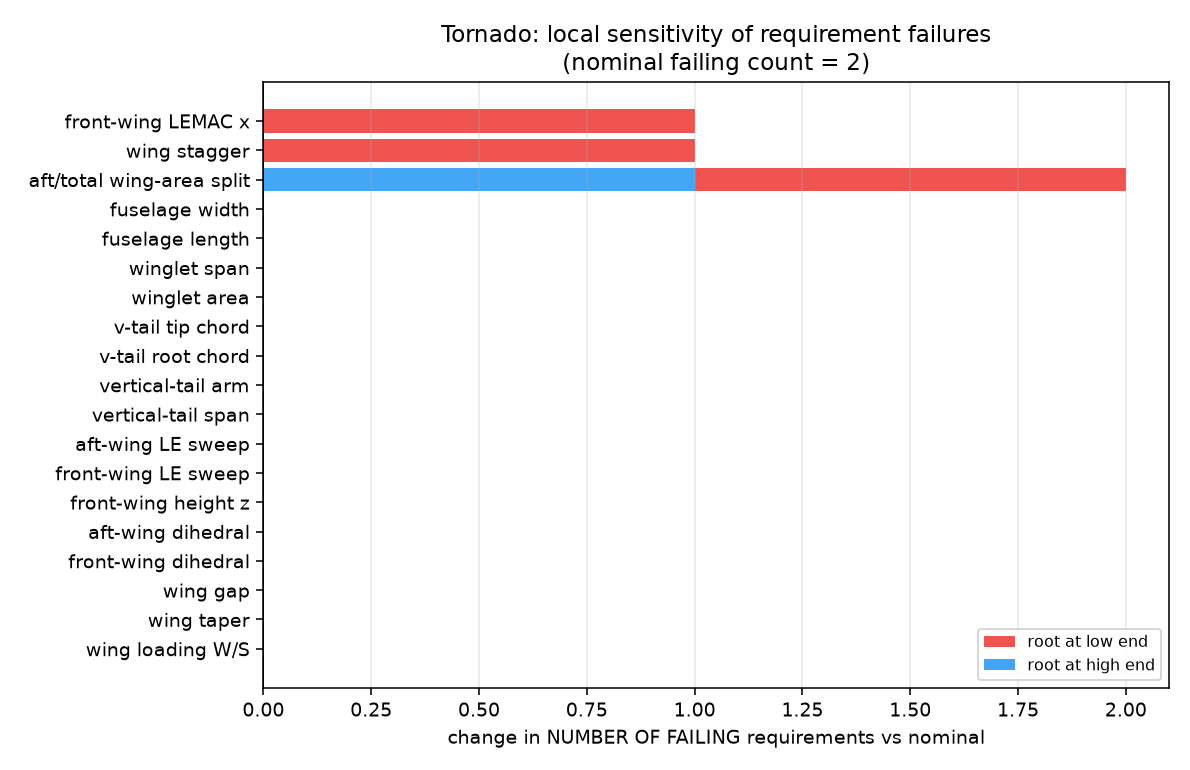
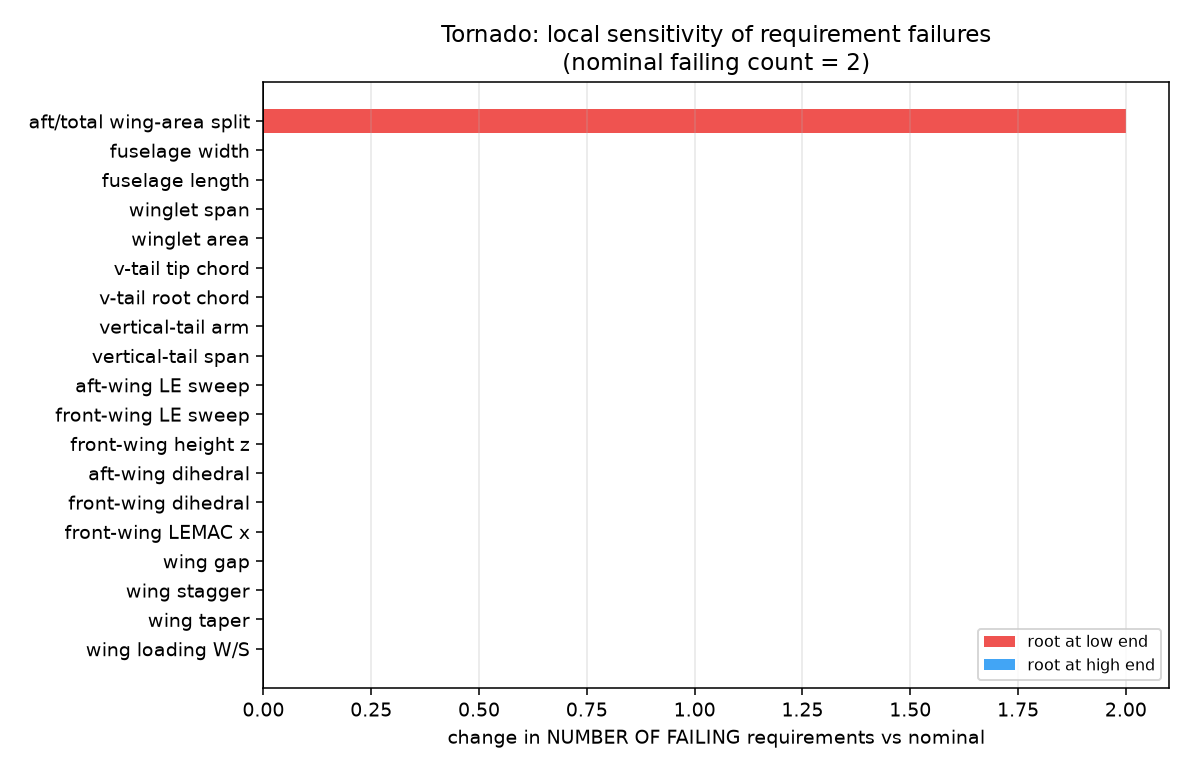
de hardcoding / updating VD integrations

Changed region(s): [[0.0311, 0.1247, 0.9639, 0.7792]]

diff --git a/final_characteristics/stability_eval.py b/final_characteristics/stability_eval.py
@@ -74,8 +74,9 @@ from VTOL_cg_envelope_det import load_design_parameters
 
 # Large penalty used when the VTOL OEI envelope cannot be computed (an OEI case
 # is infeasible). It pushes the allowable limits out of reach so both VTOL c.g.
-# requirements fail with a big, finite violation.
-_INFEASIBLE_PENALTY = 1.0e6  # [m]
+# requirements fail with a big, finite violation. Sourced from the parameter
+# sheet (single master value).
+from parameters import VTOL_INFEASIBLE_PENALTY as _INFEASIBLE_PENALTY  # [m]
 
 
 # ===========================================================================
@@ -218,8 +219,10 @@ def _resolve_dependents(params):
     wl.AR_winglet = wl.b_winglet ** 2 / wl.S_winglet
     wl.LE_sweep_winglet = np.arctan(wg.stagger / wg.gap)
 
-    # Fuselage projected side area carries the vertical-tail area.
-    fg.side_area = 20.0 + tg.S_vert_tail
+    # Fuselage projected side area carries the vertical-tail area. The base area
+    # is the sheet field (FuselageGeometry.base_area), matching the dataclass
+    # default and aircraft.main_aircraft() rather than a hardcoded constant.
+    fg.side_area = fg.base_area + tg.S_vert_tail
     fg.body_depth_at_wing = fg.d_fw
 
 
@@ -325,10 +328,13 @@ def evaluate_stability(param_overrides=None, design_vars=None, mtow=None):
         _set_dotted(params, charts, dotted_path, value)
     _resolve_dependents(params)
 
-    # c.g. positions: design_vars override the sheet default x_cg_opt.
-    default_cg = params.mass.x_cg_opt
-    cg_cruise_nose = design_vars.get("cg_cruise_nose", design_vars.get("x_cg", default_cg))
-    cg_vtol_nose = design_vars.get("cg_vtol_nose", design_vars.get("x_cg", default_cg))
+    # c.g. (and inertias) from the REAL MMOI component mass build-up, not a
+    # hand-set sheet value. The cruise build-up fills params.mass and feeds the
+    # cruise checks; the aft-shifted VTOL (wings-folded) build-up feeds the
+    # VTOL-OEI check. design_vars may still override for manual what-ifs.
+    mmoi_cruise_cg, mmoi_vtol_cg = aircraft.apply_mmoi_mass_properties(params)
+    cg_cruise_nose = design_vars.get("cg_cruise_nose", design_vars.get("x_cg", mmoi_cruise_cg))
+    cg_vtol_nose = design_vars.get("cg_vtol_nose", design_vars.get("x_cg", mmoi_vtol_cg))
     cruise_static_margin = design_vars.get("cruise_static_margin", DEFAULT_CRUISE_STATIC_MARGIN)
 
     # --- Build the aircraft and apply the wing-area split ------------------

diff --git a/final_characteristics/optimiser.py b/final_characteristics/optimiser.py
@@ -80,16 +80,21 @@ from pymoo.operators.mutation.pm import PM
 #   bounds    -- (low, high) search range
 #   route     -- where the value goes when evaluating a design:
 #                  "design_var:<key>"  -> stability_eval design_vars[<key>]
-#                                         (recognised keys: x_cg, s_aft_to_s_total)
+#                                         (recognised keys: s_aft_to_s_total)
 #                  "override:<dotted>"  -> stability_eval param_overrides[<dotted>]
 #   converger -- name of a class_II_sizing.mass_components module global to
 #                override before reconverging the MTOW (None = does not affect the
 #                converged mass). Only "wing_loading" does today.
 #
+# NOTE: the c.g. is NOT a design variable. It is an EMERGENT output of the
+# component mass build-up, computed by MMOI (cruise + VTOL) inside
+# stability_eval.evaluate_stability. The c.g.-envelope requirements remain
+# constraints; promote the layout roots that MOVE the c.g. (e.g. x_LEMAC_fw,
+# x_vert_tail, battery/payload stations) rather than tuning the c.g. directly.
+#
 # The set + bounds below are SUGGESTIONS grounded in the Sobol consult
 # (stability_sensitivity.py). Edit to match the team's chosen tunables.
 DESIGN_VARIABLES = {
-    "x_cg":             {"bounds": (2.8, 3.6),   "route": "design_var:x_cg",                           "converger": None},
     "s_aft_to_s_total": {"bounds": (0.30, 0.70), "route": "override:s_aft_to_s_total",                 "converger": None},
     "dihedral_fw":      {"bounds": (0.0, 6.0),   "route": "override:wing_geometry.dihedral_front_wing","converger": None},
     "dihedral_aw":      {"bounds": (0.0, 6.0),   "route": "override:wing_geometry.dihedral_aft_wing",  "converger": None},
@@ -111,7 +116,6 @@ def design_vector_to_dict(x):
 def default_design_vector():
     """Nominal starting design (mid-range-ish, near the current sheet values)."""
     return {
-        "x_cg":             3.311,  # current sheet x_cg_opt
         "s_aft_to_s_total": 0.50,
         "dihedral_fw":      0.0,
         "dihedral_aw":      0.0,

diff --git a/final_characteristics/vehicle_dynamics/aircraft.py b/final_characteristics/vehicle_dynamics/aircraft.py
@@ -1309,21 +1309,41 @@ def print_results(obj):
     print("  C_l_beta<0, C_l_p<0, C_n_r<0. All derivatives per radian.".ljust(total))
     print(line + "\n")
 
+def apply_mmoi_mass_properties(params, verbose=False):
+    """Source the mass properties (c.g., inertias, MTOW) from the real MMOI
+    component mass build-up and write them onto ``params.mass``.
+
+    This is THE single method every vehicle-dynamics entry point uses so the c.g.
+    and inertias come from the component layout (class_II_sizing/MMOI.py), never a
+    hand-set sheet value. MMOI is dual-mode: the CRUISE build-up fills
+    ``params.mass`` (x_cg_opt, z_cg, inertias, mtow) and drives the cruise
+    analysis, while the VTOL build-up (wings folded, rotors repositioned) gives an
+    aft-shifted c.g. used by the VTOL-OEI envelope check.
+
+    Returns:
+        (cruise_x_cg, vtol_x_cg): the longitudinal c.g. stations [m, nose datum]
+        for the cruise and VTOL configurations.
+    """
+    cruise = as_mass_properties(aircraft_inertia(verbose=verbose, configuration="cruise"))
+    params.mass.mtow = cruise["mtow"]
+    params.mass.I_xx = cruise["I_xx"]
+    params.mass.I_yy = cruise["I_yy"]
+    params.mass.I_zz = cruise["I_zz"]
+    params.mass.I_xz = cruise["I_xz"]
+    params.mass.z_cg = cruise["z_cg"]
+    params.mass.x_cg_opt = cruise["x_cg"]
+
+    vtol_x_cg = float(as_mass_properties(aircraft_inertia(configuration="vtol"))["x_cg"])
+    return float(cruise["x_cg"]), vtol_x_cg
+
+
 def main_aircraft():
     params = AircraftParameters()
     charts = DatcomChartInputs()
     physical = Physical()
     fc = FlightCondition()
 
-    MMOI = as_mass_properties(aircraft_inertia(verbose=True))
-
-    params.mass.mtow = MMOI["mtow"]
-    params.mass.I_xx = MMOI["I_xx"]
-    params.mass.I_yy = MMOI["I_yy"]
-    params.mass.I_zz = MMOI["I_zz"]
-    params.mass.I_xz = MMOI["I_xz"]
-    params.mass.z_cg = MMOI["z_cg"]
-    params.mass.x_cg_opt = MMOI["x_cg"]
+    apply_mmoi_mass_properties(params, verbose=True)
 
     aircraft = Aircraft(params, physical, fc, charts)
 

diff --git a/final_characteristics/vehicle_dynamics/dyn_stab_analysis.py b/final_characteristics/vehicle_dynamics/dyn_stab_analysis.py
@@ -32,7 +32,13 @@ except ImportError:                      # fall back to scipy if control is abse
     from scipy import signal
     HAVE_CONTROL = False
 
-from parameters import AircraftParameters
+from parameters import (
+    AircraftParameters,
+    INERTIA_RBAR_X,
+    INERTIA_RBAR_Y,
+    INERTIA_RBAR_Z,
+    INERTIA_XZ_TO_XX_RATIO,
+)
 from final_characteristics.vehicle_dynamics.aircraft import (
     Aircraft,
     Physical,
@@ -46,10 +52,11 @@ from final_characteristics.vehicle_dynamics.aircraft import (
 # 1. INERTIA ESTIMATES (placeholders until the structures department delivers)
 # ===========================================================================
 # Roskam class-I radii-of-gyration method:  I = m * (Rbar * L_char / 2)^2
-# Rbar values typical of light twin / commuter configurations. REPLACE the
-# moments of inertia in MassProperties as soon as real numbers exist — every
-# frequency below scales with 1/sqrt(I).
-RBAR_X, RBAR_Y, RBAR_Z = 0.25, 0.35, 0.40
+# Rbar values typical of light twin / commuter configurations. Only used as a
+# FALLBACK: the MMOI build-up (via aircraft.apply_mmoi_mass_properties) normally
+# fills the real inertias, so this fires only if they are still None. The Rbar
+# factors and the I_xz ratio are sourced from parameters.py.
+RBAR_X, RBAR_Y, RBAR_Z = INERTIA_RBAR_X, INERTIA_RBAR_Y, INERTIA_RBAR_Z
 
 
 def fill_inertia_placeholders(params):
@@ -65,7 +72,7 @@ def fill_inertia_placeholders(params):
     if m.I_zz is None:
         m.I_zz = m.mtow * (RBAR_Z * e / 2) ** 2;  filled.append("I_zz")
     if m.I_xz is None:
-        m.I_xz = 0.05 * m.I_xx;                   filled.append("I_xz")
+        m.I_xz = INERTIA_XZ_TO_XX_RATIO * m.I_xx;  filled.append("I_xz")
     if filled:
         print(f"[WARN] Inertias estimated by radius-of-gyration placeholders: {filled}")
         print(f"       I_xx={m.I_xx:.0f}  I_yy={m.I_yy:.0f}  I_zz={m.I_zz:.0f}  "

diff --git a/parameters.py b/parameters.py
@@ -578,6 +578,19 @@ OSWALD_EFFICIENCY    = AerodynamicCoefficients.e_hor_wings  # [-] Oswald efficie
 CRUISE_STATIC_MARGIN   = 0.05  # [-] cruise aft-CG static margin (stat_long_stab_anal_func.py)
 VTOL_OEI_STATIC_MARGIN = 0.05  # [-] VTOL OEI CG-envelope static margin (VTOL_cg_envelope_det.py)
 
+# Penalty applied when the VTOL-OEI c.g. envelope is infeasible (no allowable c.g.
+# exists for a propeller-out case): the allowable limits are pushed out of reach
+# so both VTOL c.g. requirements fail with a big, finite violation.
+VTOL_INFEASIBLE_PENALTY = 1.0e6  # [m] (stability_eval.py)
+
+# Inertia-estimation placeholders (Roskam class-I radii-of-gyration method,
+# I = m*(Rbar*L_char/2)^2). Only used as a fallback when MMOI has not filled the
+# real inertias; the MMOI build-up (class_II_sizing/MMOI.py) supersedes these.
+INERTIA_RBAR_X        = 0.25  # [-] roll-inertia radius factor   (dyn_stab_analysis.py)
+INERTIA_RBAR_Y        = 0.35  # [-] pitch-inertia radius factor  (dyn_stab_analysis.py)
+INERTIA_RBAR_Z        = 0.40  # [-] yaw-inertia radius factor    (dyn_stab_analysis.py)
+INERTIA_XZ_TO_XX_RATIO = 0.05  # [-] I_xz as a fraction of I_xx   (dyn_stab_analysis.py)
+
 # Wing structural parameters
 
 NUMBER_OF_WINGS     = 2       # [-]     e.g. 1 for conventional, 2 for Prandtl/box-wing

diff --git a/final_characteristics/ROOT_DESIGN_VARIABLES.md b/final_characteristics/ROOT_DESIGN_VARIABLES.md
@@ -13,15 +13,20 @@ when its roots move. In particular the following are **NOT roots** and must neve
 be put in the search space directly:
 
 - **c.g.** (`mass.x_cg_opt`, `x_cg`): an *emergent* output of the component
-  mass/position build-up (MMOI). It is governed by the layout roots below
-  (wing/tail/component positions) and the component sizing. In the sensitivity
-  tool the c.g. is held at its design value and the c.g.-*envelope* limits move
-  with the geometry roots. (The optimiser **currently still carries `x_cg` as a
-  convenience *proxy* design variable** for ballast/placement; the principled
-  follow-up is to drop it and let the layout roots above — `x_LEMAC_fw`,
-  `x_vert_tail`, component positions — move the c.g. instead, which additionally
-  needs the c.g. to be re-derived from those positions via MMOI in
-  `evaluate_stability`.)
+  mass/position build-up (MMOI). It is **now computed by MMOI inside
+  `evaluate_stability`** (via `aircraft.apply_mmoi_mass_properties`), not read
+  from a hand-set sheet value: the CRUISE build-up (x_cg ≈ 2.887 m) feeds the
+  cruise checks and the aft-shifted VTOL build-up (wings folded, rotors
+  repositioned; x_cg ≈ 3.564 m) feeds the VTOL-OEI check. The c.g. is therefore
+  **not** a design variable — it was removed from the optimiser search space; the
+  c.g.-envelope requirements stay as constraints and respond to the geometry
+  roots through both the moving envelope limits and (for mass changes) the
+  build-up. To *steer* the c.g., move the layout roots that set it
+  (`x_LEMAC_fw`, `x_vert_tail`, and the MMOI component stations `X_BATT`,
+  `X_PAYLOAD`, `X_ROTOR_OFFSET`). Caveat: the MMOI build-up uses the converged
+  baseline mass breakdown, so the c.g. does not yet re-track per-sample within a
+  geometry sweep (a future refinement is to thread the reconverged breakdown +
+  overridden layout stations through).
 - **Derived geometry**: tail `S/AR/MAC/taper`, winglet `AR`, `z_w_aw`, `b_aw`,
   `taper_aw`, wing areas computed from `W/S`, all `MAC`s. Recomputed in
   `stability_eval._resolve_dependents` / `_update_aircraft_for_wing_split`.
